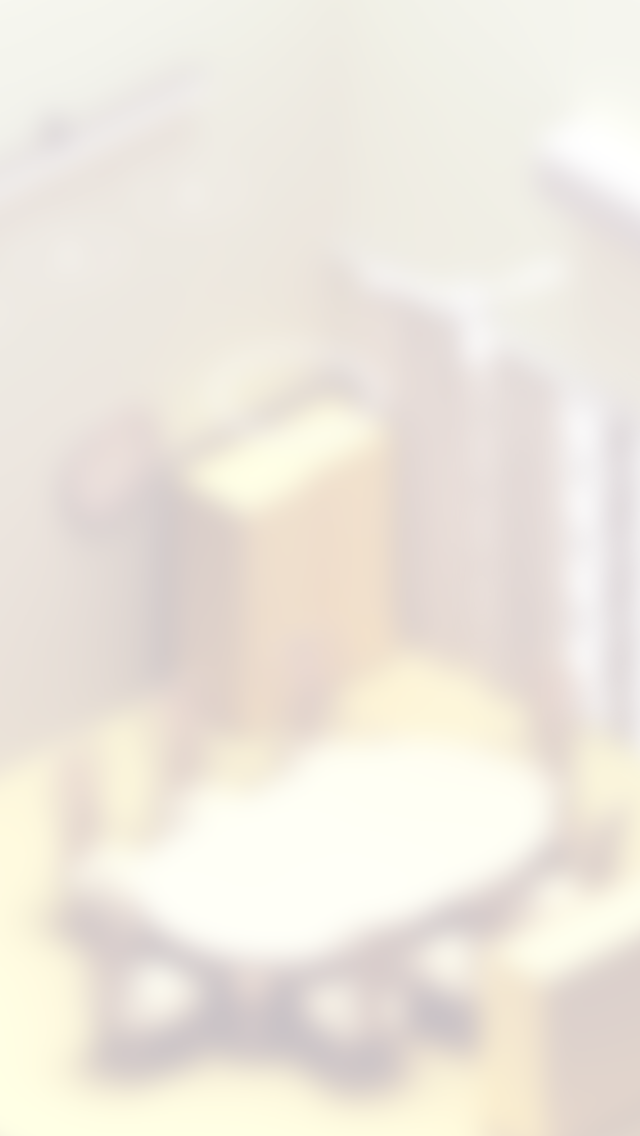
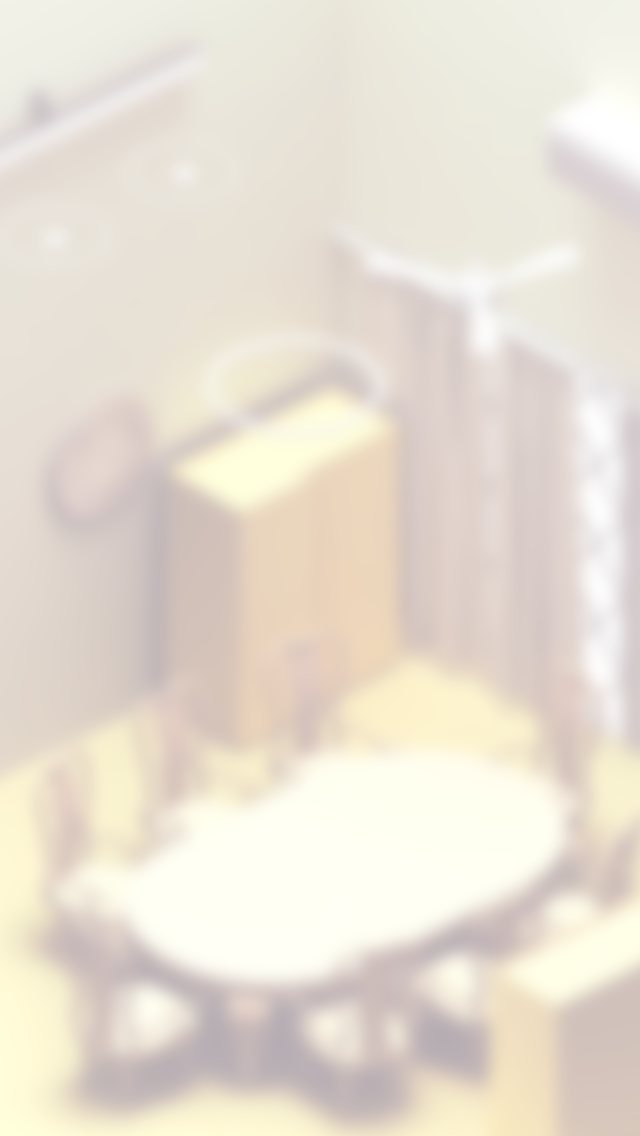
mobile BG opacity

diff --git a/index.html b/index.html
@@ -63,23 +63,25 @@ body {
   letter-spacing: .04em;
   line-height: 2em;
   font-size: 1.4em;
-	/*overflow-y: hidden;*/
+	overflow-y: hidden;
+  overflow-x: hidden;
 	}
 
 
 
  @media only screen and (max-width: 540px) {
   body {
+    position: relative;
+    padding: 0;
+    margin: 0;
     background:url('images/BG_mobile.png');
     background-repeat: no-repeat;
     background-color: #e9e2dd;
     background-size: cover;
-    padding: 0;
-    margin: 0;
     font-size: 1.3em;
     line-height: 2.3em;
     letter-spacing: -0.01em;
-    overflow-x: hidden;
+   
   }
 
   .text-left {
